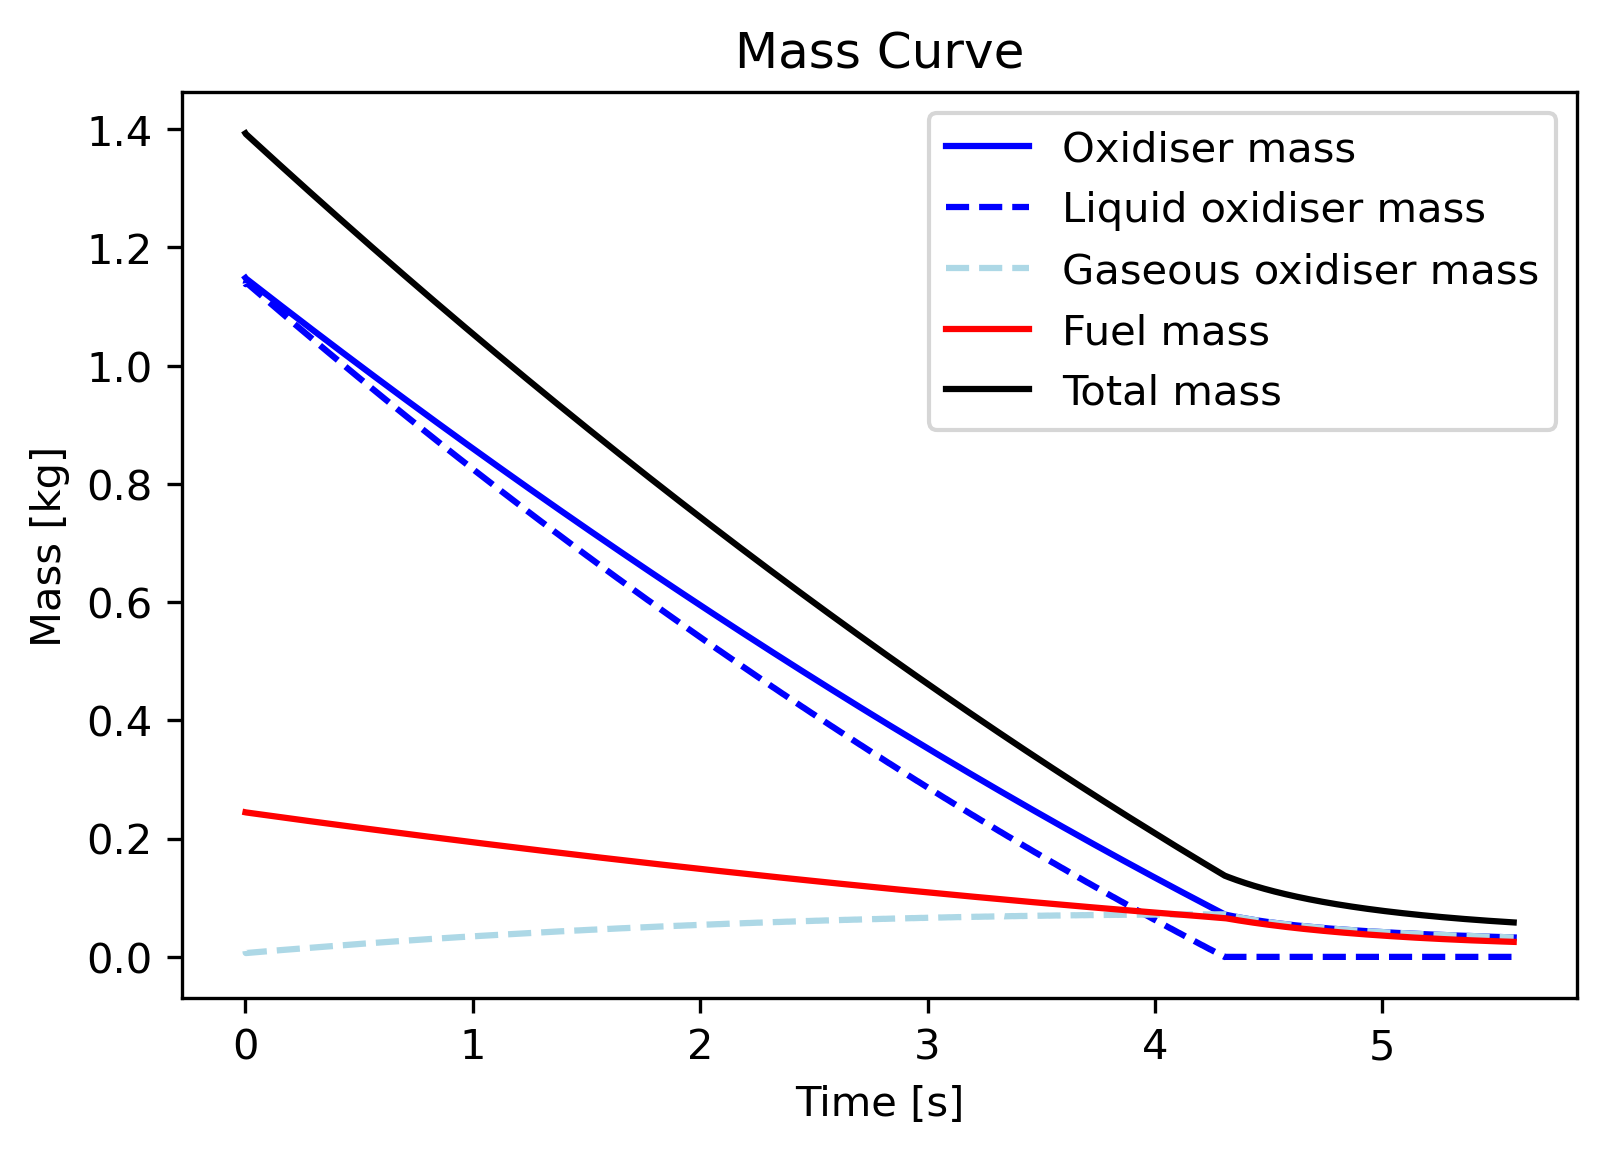
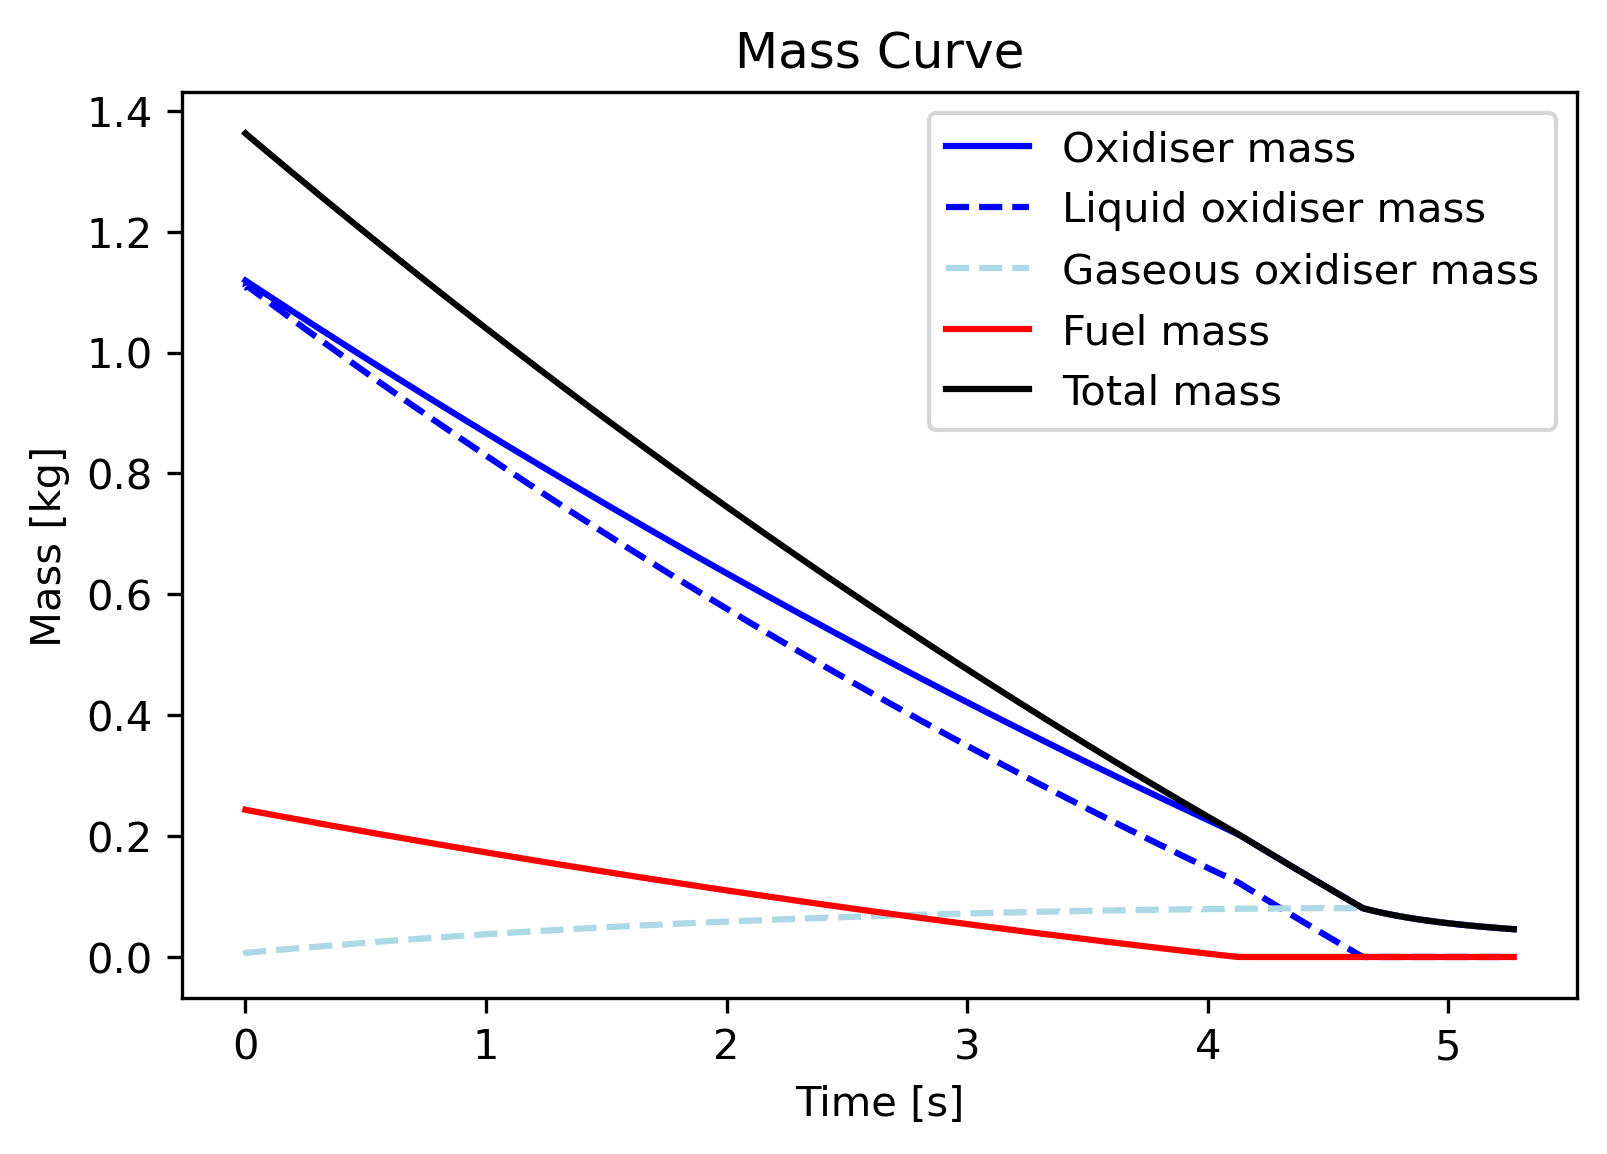
Updates to simulations for liquid engine

diff --git a/liquid_engine.html b/liquid_engine.html
@@ -50,7 +50,7 @@
         <section class="section">
             <h2>Scope</h2>
             <ul class="highlight-list">
-                <li>Design and machine a nitrous oxide and IPA liquid rocket engine with fully custom concentric tanks, floating piston, and a UC valve.</li>
+                <li>Design and machine a nitrous oxide and IPA liquid rocket engine with fully custom concentric tanks, floating piston, and pneumatic valve.</li>
                 <li>Develop a valve and injector architecture compatible with manual lathe and mill fabrication while preserving performance and control.</li>
                 <li>Characterise injector flow, discharge coefficients, and spray geometry through water and cold gas testing before hot fire.</li>
                 <li>Build instrumentation for live pressure, temperature, thrust and video telemetry to validate system behaviour and safety.</li>
@@ -60,7 +60,7 @@
             <h2>Key Characteristics</h2>
             <div class="section-split">
                 <div class="text-block">
-                    <p>Hotfire results: 2562 Ns total impulse, 611 N peak thrust and 80%+ C* efficiency. An outstanding outcome for a UC valve design, with instant clean ignition and a smooth burn profile.</p>
+                    <p>Hotfire results: 2562 Ns total impulse, 611 N peak thrust and 85%+ C* efficiency. An outstanding outcome for a UC valve design, with instant clean ignition and a smooth burn profile.</p>
                     <div class="metric-grid">
                         <div class="metric-card">
                             <h3>Demonstrated Performance</h3>
@@ -68,7 +68,7 @@
                         </div>
                         <div class="metric-card">
                             <h3>Simulation Informed Design</h3>
-                            <p>Engine components sized using thermodynamic simulation, injector designed using simulation data and literature with momentum balance. Simulation tuning gave 80%+ C* efficiency.</p>
+                            <p>Engine components sized using thermodynamic simulation, injector designed using simulation data and literature with momentum balance. Simulation tuning gave 85%+ C* efficiency.</p>
                         </div>
                         <div class="metric-card">
                             <h3>Floating Piston &amp; Concentric Tanks</h3>
@@ -204,7 +204,7 @@
         <section class="section">
             <h2>Hotfire Results</h2>
 
-            <p>The engine significantly overperformed initial predictions, delivering 2562 Ns total impulse and upgrading the classification from K357 to L-class. The model assumed 65% C* efficiency but the data shows 80%, an excellent result for a UC valve engine. Ignition was instant and clean. A visible step in the thrust curve around 3.8 s shows the IPA running out before the N<sub>2</sub>O, so the O/F ratio needs tuning. These results are extremely promising and I am looking forward to iterating on the design.</p>
+            <p>The engine significantly overperformed initial predictions, delivering 2562 Ns total impulse and upgrading the classification from K357 to L-class. The model assumed 65% C* efficiency but the data shows 85%+, an excellent result for a UC valve engine. Ignition was instant and clean. A visible step in the thrust curve around 3.8 s shows the IPA running out before the N<sub>2</sub>O, so the O/F ratio needs tuning. These results are extremely promising and I am looking forward to iterating on the design.</p>
 
             <div class="card-grid">
                 <div class="project-card">
@@ -221,7 +221,7 @@
             </div>
 
             <h3>Simulation Fit</h3>
-            <p>Tuning tank pressure to 36–37 bar and C* efficiency to 80% produced a simulated thrust curve that closely tracks the measured data.</p>
+            <p>Tuning tank pressure to 40 bar and C* efficiency to 85%+ produced a simulated thrust curve that closely tracks the measured data.</p>
 
             <div class="card-grid">
                 <div class="project-card">

diff --git a/index.html b/index.html
@@ -61,7 +61,7 @@
                 </div>
                 <div class="stat-card">
                     <h3>Liquid engine design & hotfire</h3>
-                    <p>Designed, manufactured and successfully hotfired a fully custom liquid rocket engine with concentric tanks, floating piston and UC valve. The engine overperformed predictions, achieving 2562 Ns total impulse and 80% C* efficiency.</p>
+                    <p>Designed, manufactured and successfully hotfired a fully custom liquid rocket engine with concentric tanks, floating piston and custom pneumatic UC valve. The engine overperformed predictions, achieving 2562 Ns total impulse and 85%+ C* efficiency.</p>
                 </div>
                 <div class="stat-card">
                     <h3>Industry experience</h3>